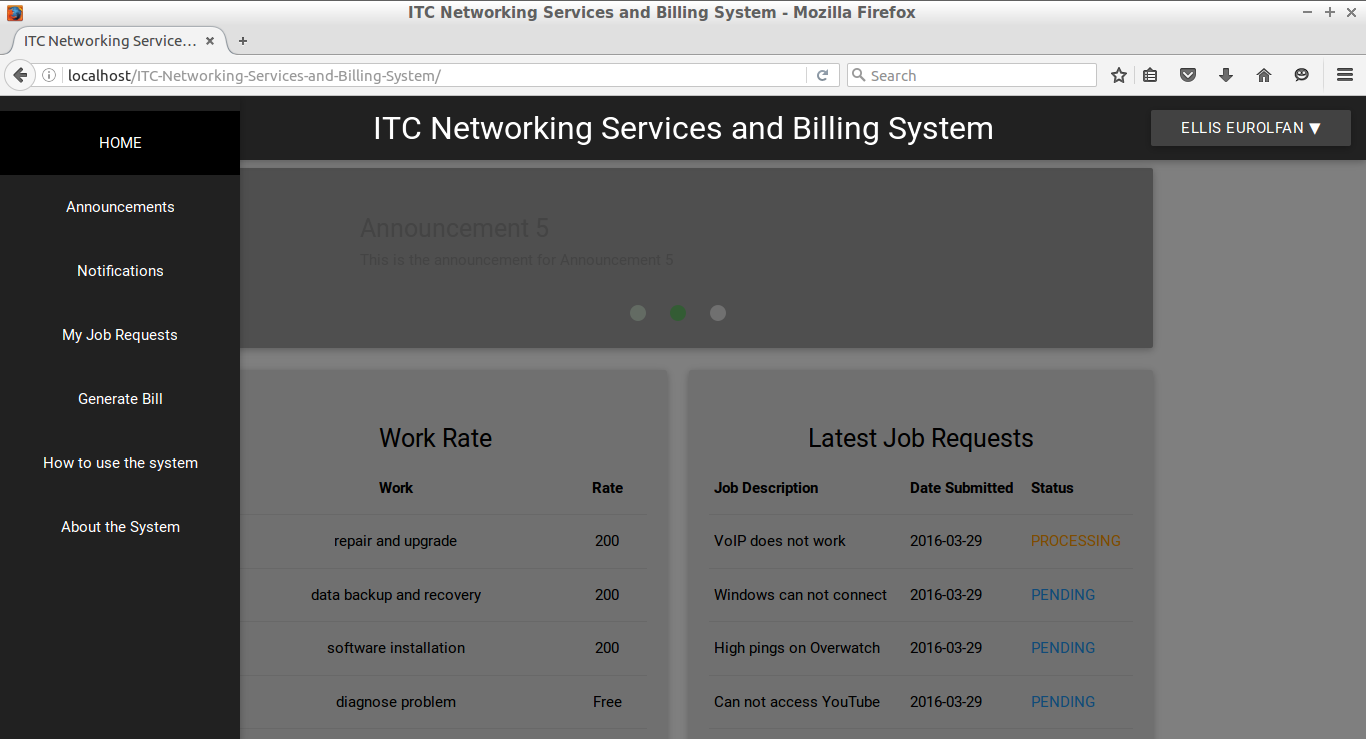
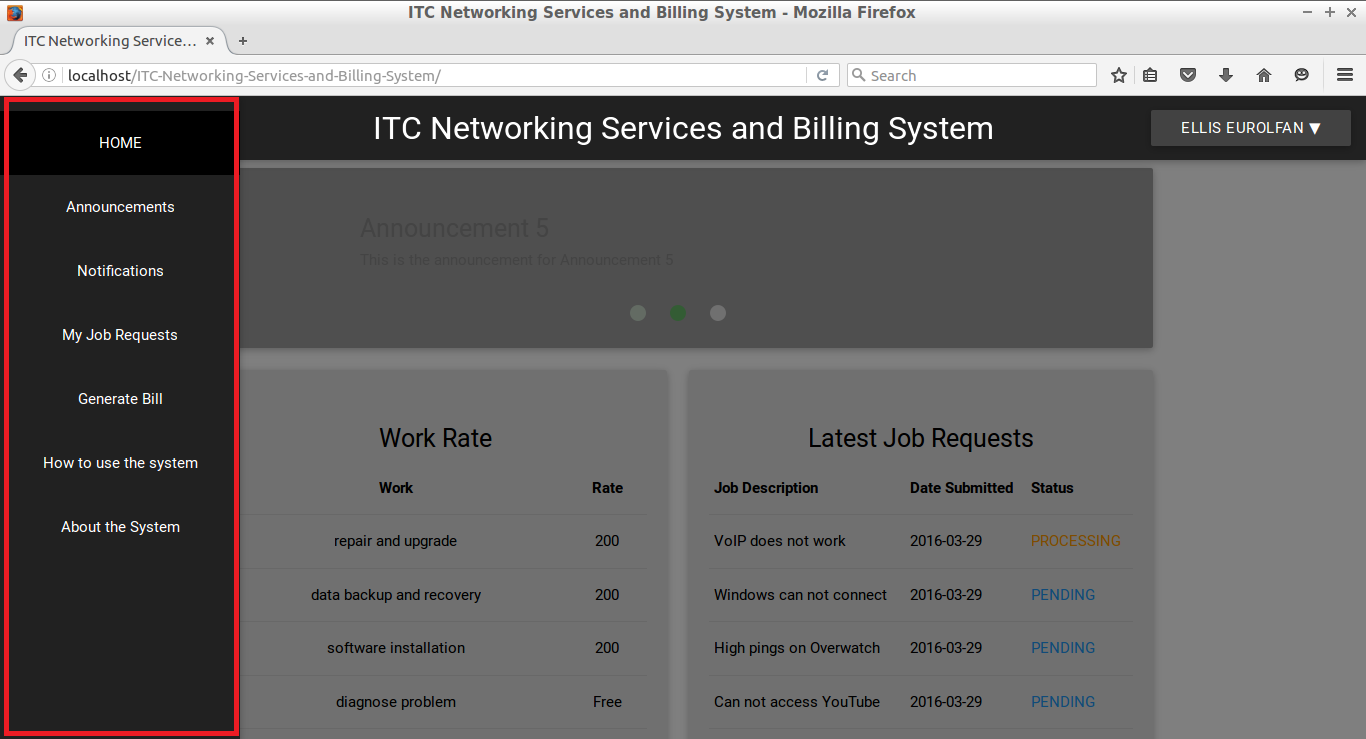
updated How To images

Changed region(s): [[0.0, 0.1245, 0.1845, 0.9959]]

diff --git a/application/views/HowTo_Dash.php b/application/views/HowTo_Dash.php
@@ -20,7 +20,7 @@
 						<b>2. Click the Job Request Tab  in the Side Bar.</b>
 						<p>It will redirect you to the Job Request Page. Click the File Job Request tab to  file a job request.</p>
 					<p>
-					<img class="materialboxed" width="650" src="assets/images/HowToImages/sidenav.png">
+					<img class="materialboxed" width="650" src="assets/images/HowToImages/sidenav1.png">
 					<br/>
 					<img class="materialboxed" width="650" src="assets/images/HowToImages/filejrtab.png">
 					<p>
@@ -42,11 +42,12 @@
 						<p>This will show the Side Navigation.</p>
 					</p>
 					 	<img class="materialboxed" width="650" src="assets/images/HowToImages/navigationbar.png">
+					 	<img class="materialboxed" width="650" src="assets/images/HowToImages/sidenav.png">
 					<p>
 						<b>2. Click the Job Request Tab  in the Side Bar.</b>
 						<p>It will redirect you to the Job Request Page.</p>
 					</p>
-					<img class="materialboxed" width="650" src="assets/images/HowToImages/sidenav.png">
+					<img class="materialboxed" width="650" src="assets/images/HowToImages/sidenav1.png">
 					<br/>
 					<img class="materialboxed" width="650" src="assets/images/HowToImages/jrtab.png">
 					<p>
@@ -73,11 +74,12 @@
 						<p>This will show the Side Navigation.</p>
 					</p>
 					 	<img class="materialboxed" width="650" src="assets/images/HowToImages/navigationbar.png">
+					 	<img class="materialboxed" width="650" src="assets/images/HowToImages/sidenav.png">
 					<p>
 						<b>2. Click the Job Request Tab  in the Side Bar.</b>
 						<p>It will redirect you to the Job Request Page.</p>
 					</p>
-					<img class="materialboxed" width="650" src="assets/images/HowToImages/sidenav.png">
+					<img class="materialboxed" width="650" src="assets/images/HowToImages/sidenav1.png">
 					<br/>
 					<img class="materialboxed" width="650" src="assets/images/HowToImages/jrtab.png">
 					<p>
